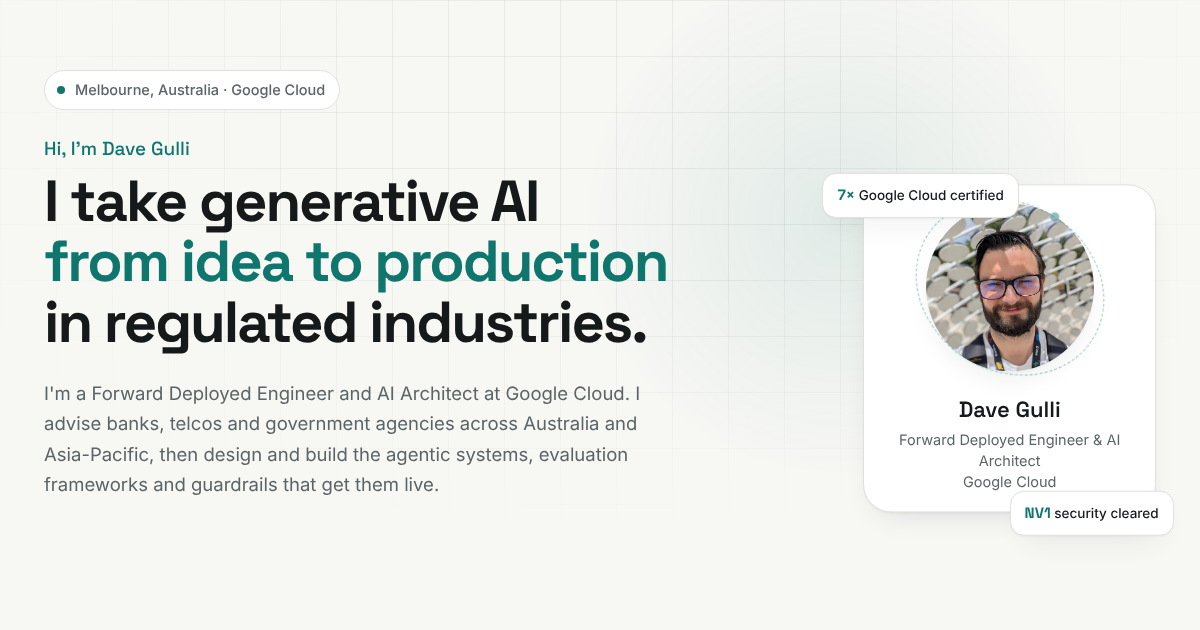
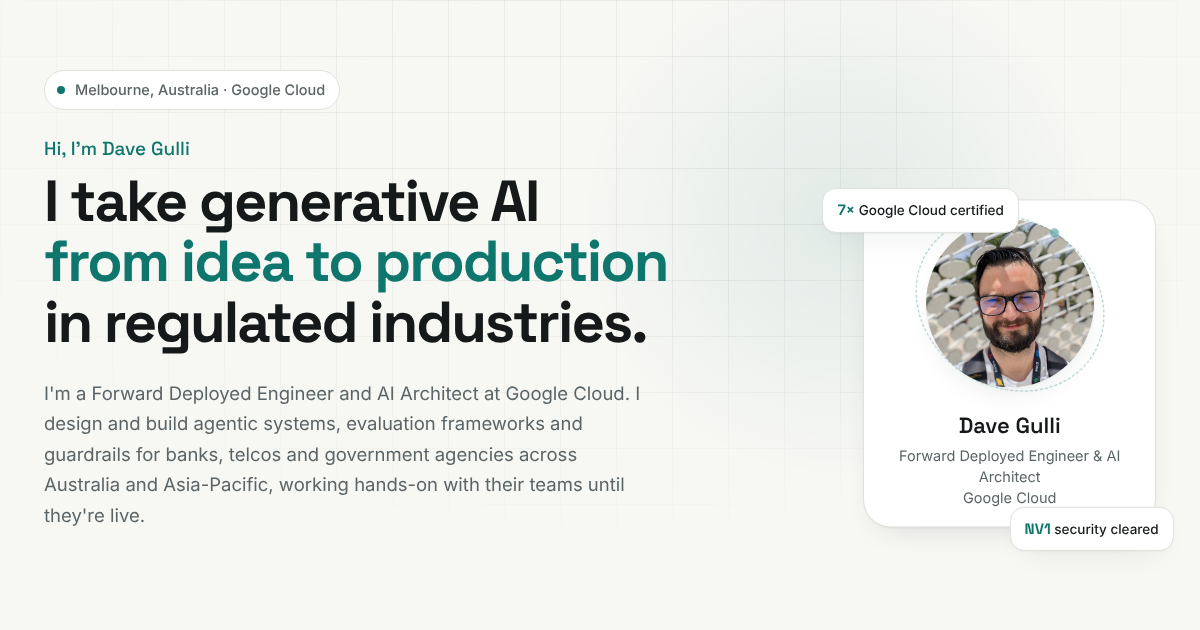
Reword hero and about copy to lead with building
Claude-Session: https://claude.ai/code/session_01UjQgES9NRcDuafqUkpreVu

Changed region(s): [[0.6783, 0.2714, 0.9867, 0.8746], [0.0308, 0.6635, 0.5242, 0.7841], [0.0308, 0.8143, 0.1233, 0.8444]]

diff --git a/js/data.js b/js/data.js
@@ -26,7 +26,7 @@ window.RESUME = {
     headline: ["I take generative AI", "from idea to production", "in regulated industries."],
     accentLine: 1, // which headline line gets the accent colour (0-based)
     intro:
-      "I'm a Forward Deployed Engineer and AI Architect at Google Cloud. I advise banks, telcos and government agencies across Australia and Asia-Pacific, then design and build the agentic systems, evaluation frameworks and guardrails that get them live.",
+      "I'm a Forward Deployed Engineer and AI Architect at Google Cloud. I design and build agentic systems, evaluation frameworks and guardrails for banks, telcos and government agencies across Australia and Asia-Pacific, working hands-on with their teams until they're live.",
     facts: ["20+ years customer-facing", "6 years at Google Cloud", "NV1 security cleared"],
   },
 
@@ -43,9 +43,9 @@ window.RESUME = {
 
   /* ---------- About section (website wording) ---------- */
   about: [
-    "I've spent more than 20 years in customer-facing technical roles, the last six at Google Cloud. These days my work is helping banks, telcos and government agencies adopt generative AI, and then staying on to design and build what gets them into production.",
-    "That usually means agentic systems, the evaluation frameworks that prove they work, and the guardrails that keep them safe, all built to meet APRA, MAS and ISM requirements.",
-    "I'm a former CTO and AUNZ pre-sales site lead, so I'm as comfortable in an executive workshop as I am in a code review. I still write production Python.",
+    "I build generative AI systems for banks, telcos and government agencies, working inside their teams until the thing is in production. I've spent more than 20 years in customer-facing technical roles, the last six at Google Cloud.",
+    "That means writing the code myself: agentic systems, the evaluation frameworks that prove they work, and the guardrails that keep them safe, all built to meet APRA, MAS and ISM requirements.",
+    "I'm also a former CTO and AUNZ pre-sales site lead, which helps when a design has to get past executives, security and model risk before it can ship.",
   ],
   highlights: [
     { value: 20, suffix: "+", label: "years in customer-facing technical roles" },

diff --git a/js/main.js b/js/main.js
@@ -66,7 +66,7 @@
   $("#marquee").innerHTML = '<div class="marquee__track">' + names + names.replace(/<span>/g, '<span aria-hidden="true">') + "</div>";
 
   /* ---------------- AboutSection ---------------- */
-  $("#about").innerHTML = '<div class="wrap">' + head("About", "Adviser first, then builder.") +
+  $("#about").innerHTML = '<div class="wrap">' + head("About", "A builder, embedded with the customer.") +
     '<div class="about"><div class="about__text" data-reveal>' + R.about.map(function (p) { return "<p>" + p + "</p>"; }).join("") + "</div>" +
     '<div class="about__cards">' + R.highlights.map(function (h, i) {
       return '<div class="card card--lift stat" data-reveal style="--i:' + (i + 1) + '"><div class="stat__num">' + count(h) + h.suffix + '</div><div class="stat__label">' + h.label + "</div></div>";
